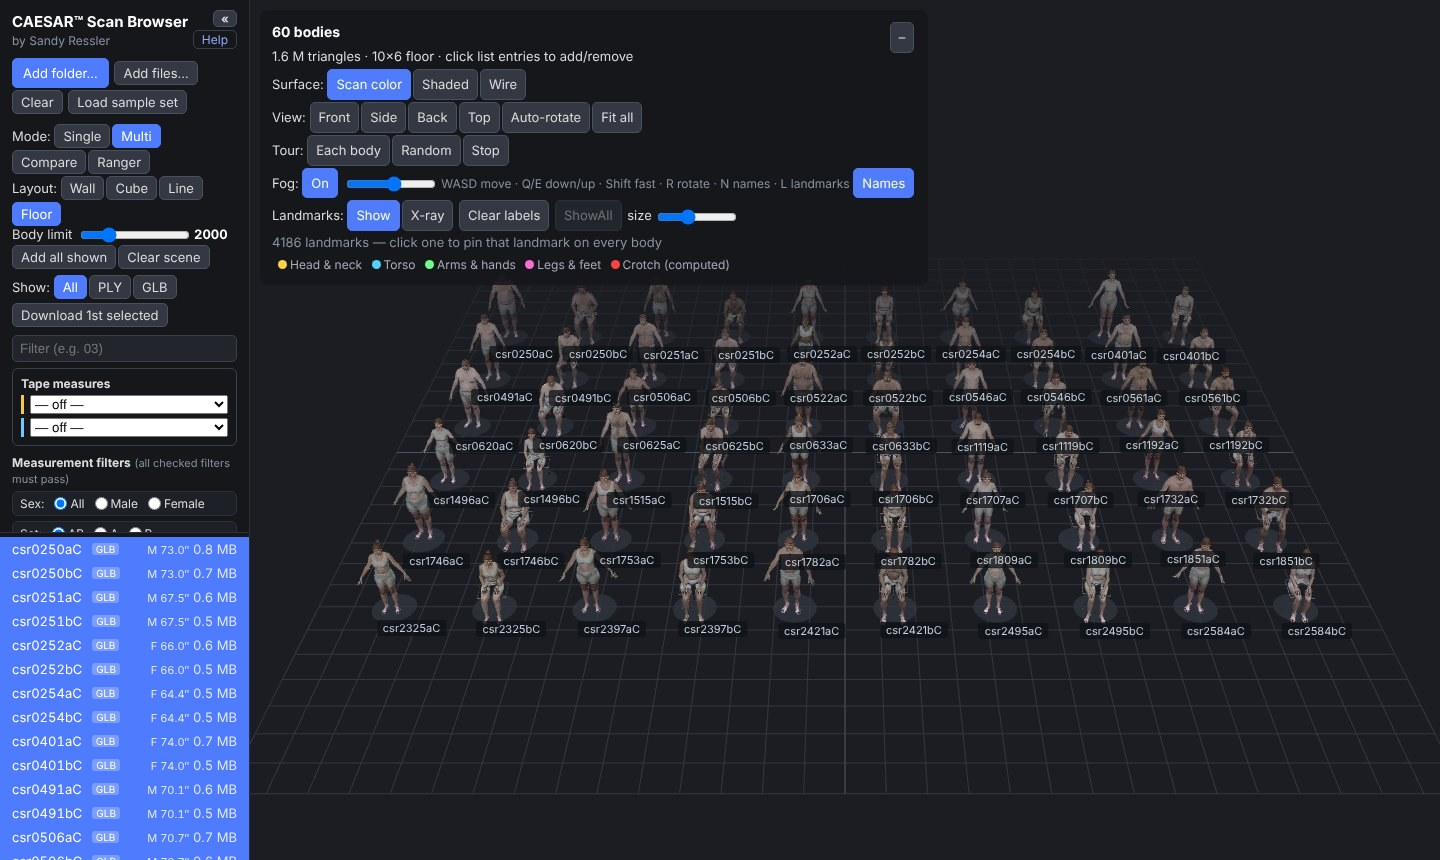
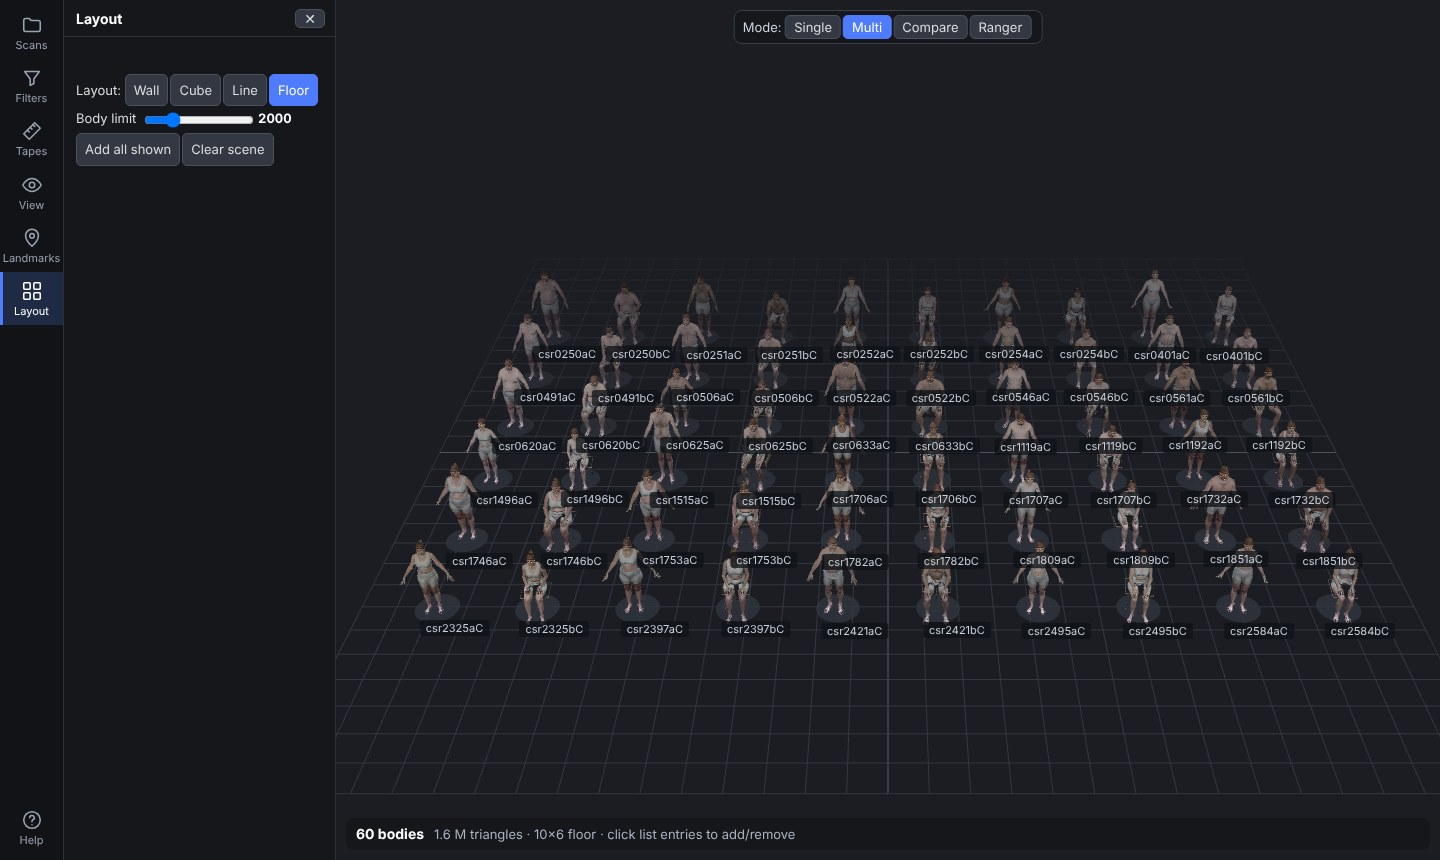
README and screenshots for the new layout; help caption fix

diff --git a/help.html b/help.html
@@ -224,7 +224,7 @@ figure{margin:16px 0}figure img{display:block;width:100%;height:auto;border:1px 
 <li><span class="btn">Show</span> (key <kbd>L</kbd>) hides or shows all spheres. <span class="btn">X-ray</span> draws them through the body. <span class="btn">Clear labels</span> removes all pins. The <b>size</b> slider changes the sphere size.</li>
 </ul>
 
-<figure><img data-b64="help/5_showall.txt" alt="A standing scan in Single mode with ShowAll: every landmark labelled in two columns with callout lines" loading="lazy"><figcaption>Single mode with <a href="#showall">ShowAll</a> (csr0625aC): all 73 landmarks labelled in two columns beside the body, callout distance 25 cm, panel collapsed.</figcaption></figure>
+<figure><img data-b64="help/5_showall.txt" alt="A standing scan in Single mode with ShowAll: every landmark labelled in two columns with callout lines" loading="lazy"><figcaption>Single mode with <a href="#showall">ShowAll</a> (csr0625aC): all 73 landmarks labelled in two columns beside the body, callout distance 25 cm, Landmarks panel open.</figcaption></figure>
 <h2 id="tape">7a. Tape measures and definitions</h2>
 <p>Pick up to two measurements from the two menus in the <b>Tapes</b> panel. Tape 1 is drawn in yellow and tape 2 in blue, both with inch marks, on every body in the scene, as described in the <i>CAESAR Final Report, Vol. II: Demographic and Measurement Descriptions</i> (Air Force Research Laboratory, 2002):</p>
 <ul>

diff --git a/README.md b/README.md
@@ -68,6 +68,7 @@ The text below is the same as `help.html`.
 The browser displays 3D body scans from the CAESAR anthropometric survey (US, Italy and Netherlands), with their anatomical landmarks and measurements. It reads scans straight from your disk: nothing is uploaded.
 
 - 1\. Getting started
+  - 1a. The screen layout
 - 2\. The file list
 - 3\. Single mode
   - 3a. Repair (watertight copy)
@@ -90,9 +91,9 @@ The browser displays 3D body scans from the CAESAR anthropometric survey (US, It
 
 ![The 60 sample scans arranged in a cube in Multi mode](docs/images/help_cube.jpg)
 
-*The 60 built-in sample scans in Multi mode, Cube layout, with fog. The Mode row has Single, Multi, Compare and Ranger; the Layout row has Wall, Cube, Line and Floor. ShowAll in the Landmarks row is greyed out here: it works in Single mode only.*
+*The 60 built-in sample scans in Multi mode, Cube layout, with fog. The rail on the left has the Scans panel open; the mode bar is at the top of the view and the body bar along the bottom (section 1a).*
 
-#### Loading buttons
+#### Loading buttons (Scans panel)
 
 |  |  |
 | --- | --- |
@@ -107,24 +108,46 @@ Loads add up: run Add folder on `a2`, then `b2`, and all of them appear in one l
 
 **Which folder to pick?** `a` folders hold standing scans, `b` seated, `c` a second seated pose. A browser can only read inside the folder you pick, and it does not follow links or aliases to other folders, so pick the real folder, not a folder of aliases. When you pick a large folder the browser asks you to confirm “upload” of every file in it; nothing actually leaves your computer, and only the `.glb` files are used. The measurement data is built in, so you don't need the measurement files.
 
+#### 1a. The screen layout
+
+The 3D view fills most of the window. Around it are three things:
+
+|  |  |
+| --- | --- |
+| **Rail** (left edge) | A column of buttons, each with its name under the icon. Each one opens one panel beside the rail. Click the same button again, or ✕ at the top of the panel, to close it: the 3D view then takes the full width. Only one panel is open at a time; the page opens with Scans. |
+| **Mode bar** (top centre of the view) | Single Multi Compare Ranger. |
+| **Body bar** (bottom of the view) | The name and details of what is shown: vertex and triangle counts, scan height, sex and the values of the three filter measurements in Single mode; the number of bodies, triangles and layout in Multi mode; both bodies and the difference between them in Compare mode. In Single mode ◀ Prev Next ▶ are at its right end. |
+
+| Rail button | Panel |
+| --- | --- |
+| **Scans** | The title; Add folder… Add files… Clear Load sample set; **Show: All / PLY / GLB**; Download 1st selected and, in Single mode, Repair; the name filter box and the file list (section 2). |
+| **Filters** | Sex, Set and the three measurement filters, with the number of files listed (section 8). |
+| **Tapes** | The two tape measures (section 7a). |
+| **View** | Surface (Scan color, Shaded, Wire), Front/Side/Back/Top, Auto-rotate, Fit all, Tour, Fog, Names, and a reminder of the flying keys (section 6). |
+| **Landmarks** | Show, X-ray, Clear labels, ShowAll, the callout distance, the sphere size and the region colours (section 7). |
+| **Layout** | The settings for the current mode: in Multi, Wall/Cube/Line/Floor, Cube outline, Body limit, Add all shown and Clear scene (section 4); in Compare, Position, Separation and the A and B slots (section 5). In Single and Ranger it says where their controls are. |
+| **Help** | Opens this page. |
+
 ### 2. The file list
+
+The list is in the **Scans** panel.
 
 - Each entry shows the scan name exactly as the file is named (upper/lower case kept, e.g. `csr0250aC`), a PLY or GLB tag, the subject's sex (M/F) and measurement values, and the file size.
 - A green dot on a PLY entry means a matching landmark file was found. GLB files carry their landmarks inside.
 - **Show: All / PLY / GLB** limits the list to one file type.
 - The **Filter** box matches part of the name, e.g. `030` or `nl_`.
 - The measurement and sex filters (section 8) also narrow the list.
-- Download 1st selected (below the Show buttons) saves the first selected scan in the list: the one shown in Single mode, the first body in the scene in Multi mode, or the first of A/B in Compare mode. In the Claude artifact viewer the file arrives inside a .zip; on the hosted website it downloads as is.
+- Download 1st selected (in the Scans panel, below the Show buttons) saves the first selected scan in the list: the one shown in Single mode, the first body in the scene in Multi mode, or the first of A/B in Compare mode. In the Claude artifact viewer the file arrives inside a .zip; on the hosted website it downloads as is.
 - **Shift-click** (Multi mode): click one scan, then shift-click another to add every scan between them, as in the Finder. To remove a range, click a scan that is in the scene (which removes it), then shift-click another: every scan between them is removed.
 - If a click can't add a body, an orange notice at the top of the 3D view says why: the Body limit is reached (raise the slider or remove some bodies), or the body was added but is hidden by the filters.
 
 ### 3. Single mode
 
-One body at a time. Click a list entry, or use ◀ Prev Next ▶ or `↑` `↓` to step through the list. The header shows vertex and triangle counts, the scan height, the subject's sex and the values of the three selected measurements.
+One body at a time. Click a list entry, or use ◀ Prev Next ▶ or `↑` `↓` to step through the list. The body bar along the bottom of the view shows vertex and triangle counts, the scan height, the subject's sex and the values of the three selected measurements.
 
 #### 3a. Repair (watertight copy)
 
-**Repair** (next to Download 1st selected, Single mode only) makes a **watertight copy** of the body on screen, with every hole closed. The original scan and its file are not changed.
+**Repair** (next to Download 1st selected in the Scans panel, Single mode only) makes a **watertight copy** of the body on screen, with every hole closed. The original scan and its file are not changed.
 
 - **Only the holes get new triangles.** Every original triangle, vertex position and colour is kept exactly as it was. Clean-up removes only what cannot be part of a closed surface: zero-area or duplicate triangles, extra triangles on an edge shared by more than two, and tiny floating fragments of scanner noise (fewer than 50 triangles).
 - **Small holes** are closed with the least-area set of triangles across the hole. **Large holes** (scalp, soles, under the arms, between arm and torso, the lap) get a smooth cap that continues the slope of the surrounding surface: domed where the body is rounded, flat where it is flat.
@@ -136,19 +159,19 @@ One body at a time. Click a list entry, or use ◀ Prev Next ▶ or `↑` `↓` 
 
 #### 3b. ShowAll landmark callouts
 
-**ShowAll** (in the Landmarks row; always shown, but greyed out except in Single mode) labels **every landmark** of the body at once, in two columns beside it, each joined to its landmark by a callout line in the landmark's region colour.
+**ShowAll** (in the Landmarks panel; always shown, but greyed out except in Single mode) labels **every landmark** of the body at once, in two columns beside it, each joined to its landmark by a callout line in the landmark's region colour.
 
 - Landmarks on the left half of the body are labelled in the left column, the rest on the right. Each column keeps the landmarks' top-to-bottom order and spreads the labels just enough not to overlap.
 - The **callout** slider (5–100 cm) sets how far the columns sit out from the side of the body. If the columns would not fit, the view backs off so they do.
 - The columns follow the view as you rotate and zoom. Labels whose landmark is on the far side of the body are dimmed.
 - **Move a label by hand:** drag it anywhere. It then keeps that position relative to its landmark as you turn the view, and stays put when you switch scans. **Double-click** a moved label to put it back in its column.
-- While ShowAll is on, single pinned labels are hidden so nothing is labelled twice. Turning landmarks off (Show or `L`) hides the callouts too. If the left column sits under the control panel, collapse the panel with its – button.
+- While ShowAll is on, single pinned labels are hidden so nothing is labelled twice. Turning landmarks off (Show or `L`) hides the callouts too. If the left column sits under an open panel, close the panel by clicking its rail button again.
 
 ### 4. Multi mode
 
 Many bodies at once, up to the **Body limit**. Clicking a list entry **adds** that body to the scene; clicking it again **removes** it. Bodies in the scene are highlighted in the list. Every body is turned to face the front, using its landmarks, and has a name tag underneath.
 
-**Body limit** slider (10 to 9,000, default 2,000): the most bodies the scene may hold. It takes effect at once, also during a load in progress; lowering it does not remove bodies already loaded. It resets to 2,000 when the page reloads. Each full-resolution scan uses a lot of memory, so use the light scans (section 12) for large scenes.
+The Multi settings are in the **Layout** panel. **Body limit** slider (10 to 9,000, default 2,000): the most bodies the scene may hold. It takes effect at once, also during a load in progress; lowering it does not remove bodies already loaded. It resets to 2,000 when the page reloads. Each full-resolution scan uses a lot of memory, so use the light scans (section 12) for large scenes.
 
 | Layout | Arrangement |
 | --- | --- |
@@ -187,12 +210,13 @@ Many bodies at once, up to the **Body limit**. Clicking a list entry **adds** th
 
 Two bodies, A and B, for side-by-side or overlaid comparison.
 
-- **Choosing bodies:** the highlighted slot receives the next scan you click in the list. After A is filled, B is highlighted automatically. Press Pick on a slot to replace just that one. Clicking a scan that is already in a slot removes it.
+- Position, Separation and the A and B slots are in the **Layout** panel.
+- **Choosing bodies:** the highlighted slot receives the next scan you click in the list. After A is filled, B is highlighted automatically. Press Pick on a slot to replace just that one; Pick opens the Scans panel so you can click the scan. Clicking a scan that is already in a slot removes it.
 - **Opacity** (per body) makes it translucent so the other shows through. The defaults are A 100%, B 60%.
 - **Tint** (per body) colors it blue (A) or orange (B) so overlapping surfaces are easy to tell apart.
 - **Separation** slider: the distance between the two bodies' centers. At 0 cm they overlap completely; dragging moves A left and B right.
 - Superimposed jumps to 0 cm. Side by side jumps to the distance where their nearest edges are 15 cm apart.
-- The header shows both scan heights, the value of the first checked measurement (stature if none), and the difference B − A.
+- The body bar shows both scan heights, the value of the first checked measurement (stature if none), and the difference B − A.
 
 ![Two seated scans side by side in Compare mode](docs/images/help_compare.jpg)
 
@@ -200,7 +224,7 @@ Two bodies, A and B, for side-by-side or overlaid comparison.
 
 #### 5a. Ranger mode and range sliders
 
-**Ranger** (in the Mode row) shows **one body at a time** and cycles through every scan that falls inside two range sliders drawn in the 3D view. Use it to watch how bodies change across a band of sizes.
+**Ranger** (in the mode bar) shows **one body at a time** and cycles through every scan that falls inside two range sliders drawn in the 3D view. Use it to watch how bodies change across a band of sizes.
 
 ![Ranger mode: one standing body, the Weight slider along the bottom, the Stature slider on the right and the Ranger bar with Cycling On](docs/images/help_ranger.jpg)
 
@@ -241,7 +265,7 @@ Two bodies, A and B, for side-by-side or overlaid comparison.
 
 `W`/`S` forward and back · `A`/`D` left and right · `E`/`Q` up and down · hold `Shift` for 3× speed. The rotation point moves with you, so after flying somewhere the mouse rotates around your new position. Speed scales with the size of the scene.
 
-#### Panel buttons
+#### View panel buttons
 
 |  |  |
 | --- | --- |
@@ -251,8 +275,7 @@ Two bodies, A and B, for side-by-side or overlaid comparison.
 | Fit all | Reframe the camera on everything in the scene. |
 | Fog + slider | Fade farther bodies into the background (distance fog). The slider sets the strength; the fog follows the camera, so whatever is nearest stays clear. |
 | Names | Show or hide the file-name tags under the bodies (Multi and Compare). Key `N`. |
-| – / + | Collapse or expand the floating panel at the top of the 3D view. Collapse it when it covers bodies you want to click. |
-| « / » Controls | « (top right of the left panel) hides the whole left control panel so the 3D view fills the window; » Controls (bottom left) brings it back. |
+| Rail buttons · ✕ | Open a panel; click the open one again, or ✕, to close it so the 3D view fills the window beside the rail. |
 
 #### Single-key toggles
 
@@ -273,11 +296,11 @@ Head & neck   Torso   Arms & hands   Legs & feet   Crotch (a computed point 
 
 ![A standing scan in Single mode with ShowAll: every landmark labelled in two columns with callout lines](docs/images/help_showall.jpg)
 
-*Single mode with ShowAll (csr0625aC): all 73 landmarks labelled in two columns beside the body, callout distance 25 cm, panel collapsed.*
+*Single mode with ShowAll (csr0625aC): all 73 landmarks labelled in two columns beside the body, callout distance 25 cm, Landmarks panel open.*
 
 ### 7a. Tape measures and definitions
 
-Pick up to two measurements from the **Tape measures** menus in the left panel, above the measurement filters. Tape 1 is drawn in yellow and tape 2 in blue, both with inch marks, on every body in the scene, as described in the *CAESAR Final Report, Vol. II: Demographic and Measurement Descriptions* (Air Force Research Laboratory, 2002):
+Pick up to two measurements from the two menus in the **Tapes** panel. Tape 1 is drawn in yellow and tape 2 in blue, both with inch marks, on every body in the scene, as described in the *CAESAR Final Report, Vol. II: Demographic and Measurement Descriptions* (Air Force Research Laboratory, 2002):
 
 - **Circumferences** wrap around the scan the way a tape does, bridging hollows (chest at the bust points, waist at the preferred-waist landmark, hip at the table's maximum-hip height, neck base, armscye, thigh, ankle, head, hand, vertical trunk).
 - **Surface lengths** run over the body between landmarks (arm lengths, total crotch length, waist front length).
@@ -288,13 +311,15 @@ The readout and labels give the table value (measured by hand) and, where the sc
 
 In Multi mode the tapes are drawn on every body, a few per frame, so they appear one after another in a large scene. Each tape has a label beside the body with the measure's name, the table value and the tape length on the scan. Labels are shown when there are up to 60 bodies **on screen** (bodies hidden by filters don't count), so filtering down to a few bodies always brings the labels back.
 
-![Wall of six tallest scans with stature and waist tapes and labels; filter panel on the left](docs/images/help_tapes_filters.jpg)
+![Wall of six tallest scans with stature and waist tapes and labels; Tapes panel open on the left](docs/images/help_tapes_filters.jpg)
 
-*Wall layout filtered to the 6 tallest scans (Stature range 73.1–86″ on the two-circle slider; Sex and Set rows above it), with Stature (yellow) and Waist Circumference (blue) tapes and their labels.*
+*Wall layout filtered to the 6 tallest scans (Stature range 73.1–86″ in the Filters panel), with Stature (yellow) and Waist Circumference (blue) tapes and their labels; the Tapes panel is open.*
 
 A card at the bottom right shows the report's description, method, instrument, ISO 7250 reference and line drawing for the chosen measurement, with its page number. With two tapes on, tabs switch between them. Use – on the card to fold it.
 
 ### 8. Measurement and sex filters
+
+All the filters are in the **Filters** panel. The number of files listed shows at the bottom of the panel.
 
 #### Sex
 
@@ -350,7 +375,7 @@ Keys are ignored while you are typing in a text field such as the filter box.
 ### 11. Limits and troubleshooting
 
 - **Memory:** a full-resolution scan is 150–210 thousand vertices and about 400 thousand triangles, roughly 7–10 MB of graphics memory plus as much again in the page. A browser tab runs out of memory somewhere around 1,500–2,000 full-resolution bodies, and the buttons get slow well before that. Use the light scans (section 12) for big scenes.
-- **Buttons slow to respond during a big load:** each new body re-arranges the whole scene. Let the load finish or press Stop in the progress popup.
+- **Buttons slow to respond during a big load:** each new body re-arranges the whole scene. Let the load finish.
 - **Clicks don't add bodies:** look for the orange notice at the top of the 3D view: the Body limit may be reached, or the body may be hidden by a filter.
 - **"No matching landmark file":** add the folder that contains `landmarks/` (e.g. pick `a2` rather than `a2/scans`), or use the GLB version.
 - **A scan disappears from the list:** check the Show buttons, the filter box, and the sex and measurement filters.
